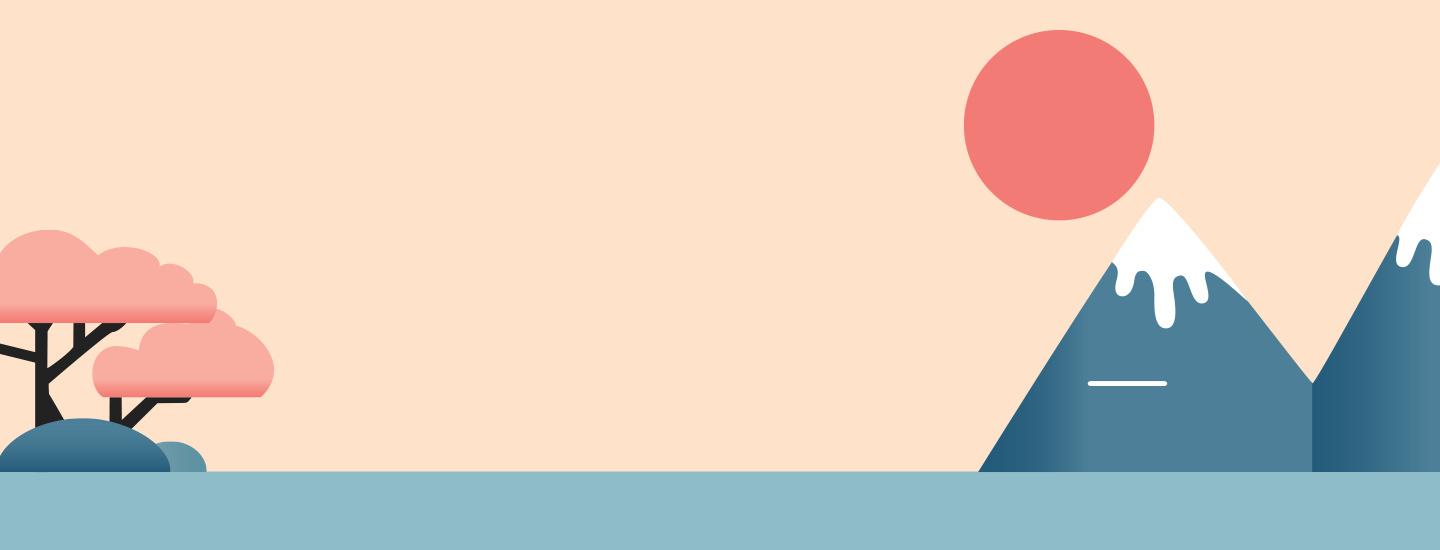
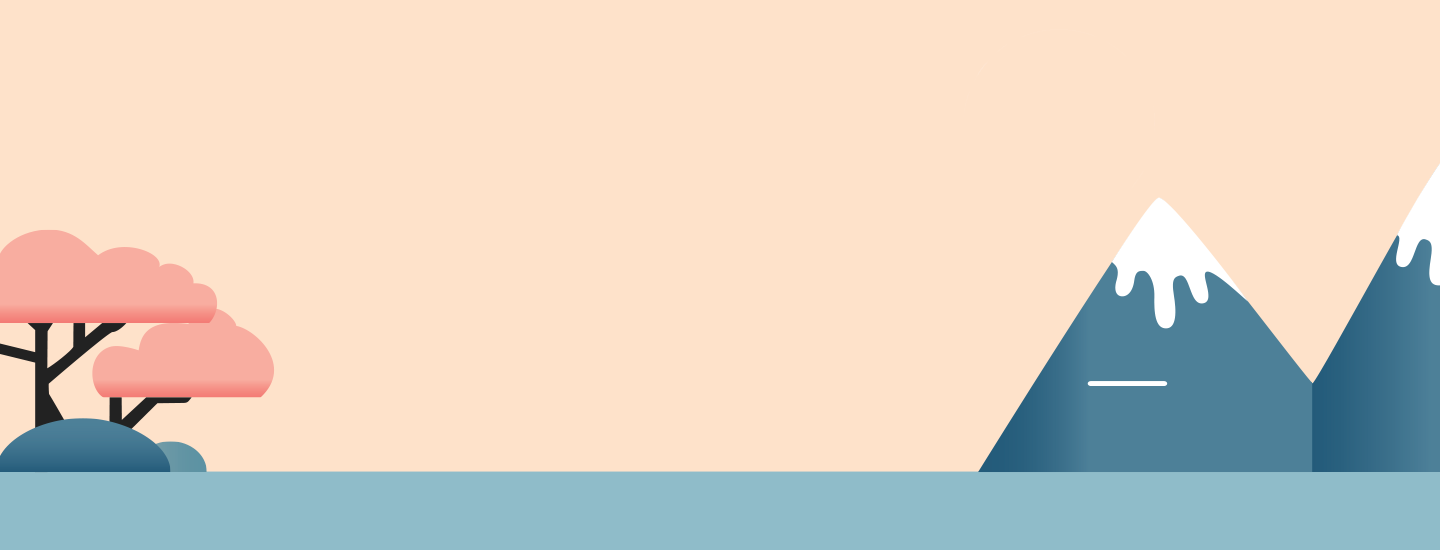
début du parallax sur la banniere

Changed region(s): [[0.6562, 0.0309, 0.8125, 0.4018]]

diff --git a/src/composants/Banner/Banner.jsx b/src/composants/Banner/Banner.jsx
@@ -1,13 +1,36 @@
 import './banner.css';
 import fond from '../../assets/banner/fond.png';
 import nuage from '../../assets/banner/nuage.png';
+import soleil from '../../assets/banner/soleil.png'
+import { ParallaxProvider, Parallax } from "react-scroll-parallax";
 
 
 export default function Banner() {
+    /*
+    <section className="banniere">
+                <img src={fond} alt="Description de l'image" />
+                <img src={nuage} alt="Description de l'image" id="cloud"/>
+            </section> 
+    */
     return (
-        <section className="banniere">
-             <img src={fond} alt="Description de l'image" />
-             <img src={nuage} alt="Description de l'image" id="cloud"/>
-        </section>
+        <ParallaxProvider className="bg-parallax">
+             <section className="banniere">
+             <img className="bg-banner" src={fond} alt="Description de l'image" />
+
+             <Parallax
+                translateY={[-90, 100]} 
+                className="sun-parallax"
+            >
+             <img src={soleil} alt="Description de l'image" id="soleil"/>
+            </Parallax>
+             <Parallax
+                translateX={[10, -10]} 
+                className="cloud-parallax"
+            >
+                <img src={nuage} alt="Description de l'image" id="cloud"/>
+                </Parallax>
+            </section> 
+            
+        </ParallaxProvider>
     )
 }

diff --git a/src/composants/Banner/banner.css b/src/composants/Banner/banner.css
@@ -16,6 +16,24 @@
    object-fit: cover;
 }
 
+.bg-parallax {
+    transform: translate(-50%, -50%);
+     width: 100%;
+}
+
 #cloud {
     mix-blend-mode: screen;
+}
+
+.cloud-parallax {
+    position: absolute;
+    width: 100%;
+    height: 100%;
+    overflow: hidden;
+}
+
+.sun-parallax {
+    position: absolute;
+    width: 100%;
+    height: 100%;
 }

diff --git a/src/composants/Card/Card.jsx b/src/composants/Card/Card.jsx
@@ -1,7 +1,5 @@
 import './card.css';
 import { Link } from "react-router-dom";
-import lateliermiewl from "../../assets/realisations/latelier_miewl.jpg";
-import giteLeopoldine from "../../assets/realisations/gite_leopoldine.jpg";
 import realisationsList from "../../data/realisations.json";
 
 
